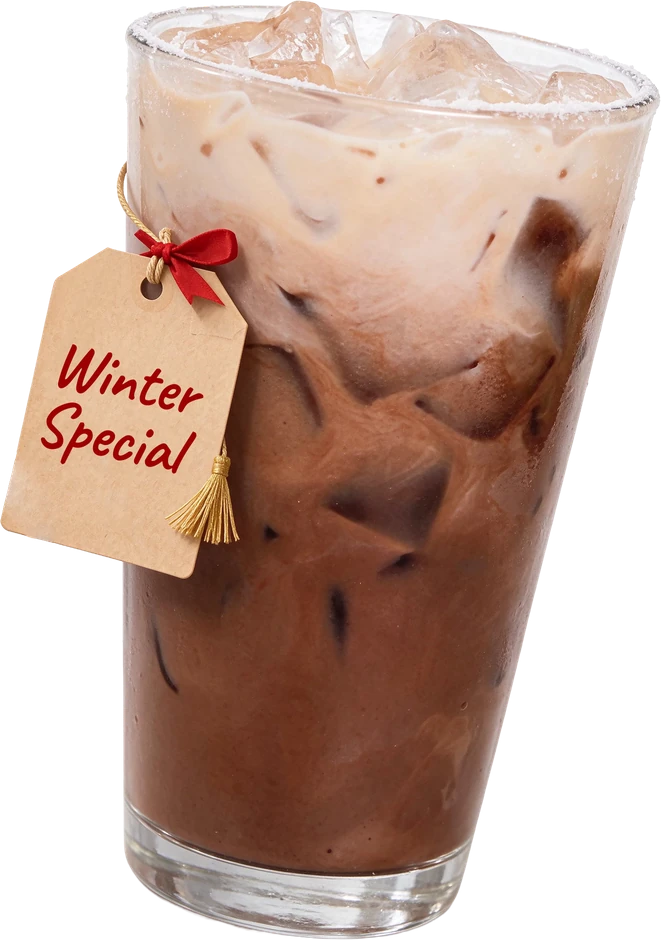
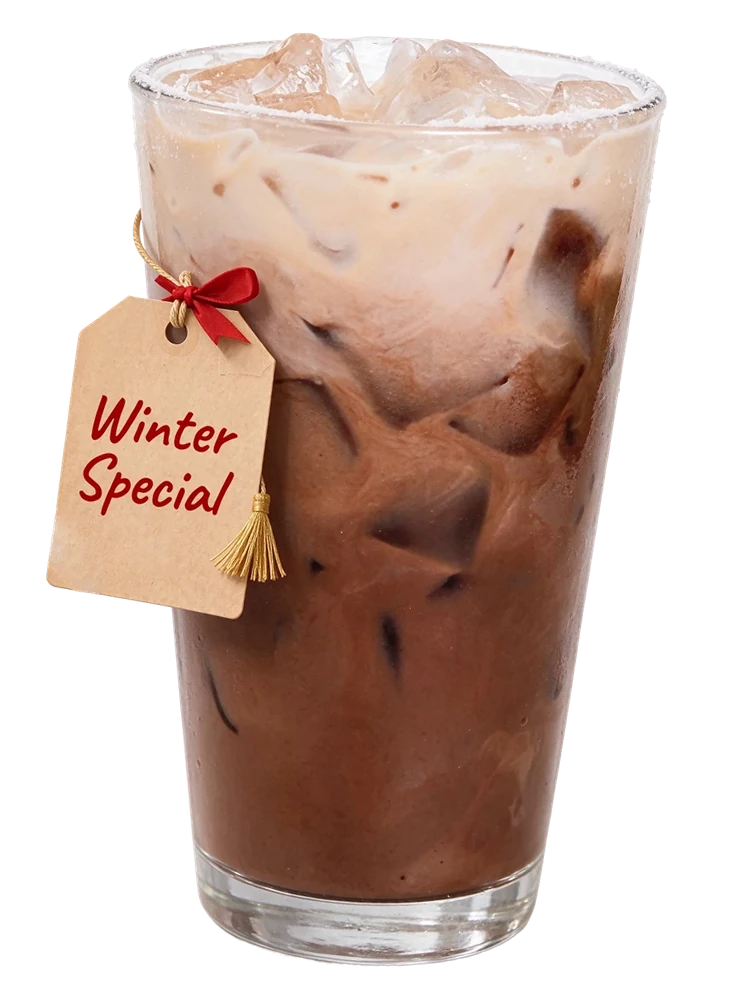
Cốc Cacao đứng thẳng ở trang chi tiết, viền card 1.2px, nút X ở trang Thông báo
Claude-Session: https://claude.ai/code/session_01E8ZwN3LHCJzK6WDiXAEDfZ

diff --git a/index.html b/index.html
@@ -390,7 +390,7 @@ input{user-select:text;-webkit-user-select:text}
 .card[data-id=den] .cup{top:78px}
 .card[data-id=nau] .cup{top:74px}
 .card[data-id=bac] .cup{top:74px}
-.card[data-id=cacao] .cup{top:76px;height:235px}
+.card[data-id=cacao] .cup{top:69px;height:249px}
 .card[data-id=cacao] .top{flex-direction:column;gap:8px}
 /* soft white outer glow, breathing slowly with a small swell */
 .card .cup img,.spin{--glow:rgba(255,255,255,.5);--glow0:rgba(255,255,255,.5);filter:drop-shadow(0 0 22px var(--glow0));animation:beat 4.8s ease-in-out infinite}
@@ -446,7 +446,7 @@ input{user-select:text;-webkit-user-select:text}
 #home .homesnow::before{opacity:.6;background-image:radial-gradient(1.8px 1.8px at 30px 40px,#fff,transparent),radial-gradient(1.3px 1.3px at 110px 150px,rgba(255,255,255,.8),transparent),radial-gradient(2.2px 2.2px at 190px 80px,#fff,transparent),radial-gradient(1.5px 1.5px at 270px 200px,rgba(255,255,255,.8),transparent),radial-gradient(1.9px 1.9px at 340px 110px,#fff,transparent);background-size:380px 260px;animation:snowfall 24s linear infinite}
 #home .homesnow::after{opacity:.4;background-image:radial-gradient(1.1px 1.1px at 60px 90px,#fff,transparent),radial-gradient(1.4px 1.4px at 150px 30px,#fff,transparent),radial-gradient(1.1px 1.1px at 240px 170px,#fff,transparent),radial-gradient(1.6px 1.6px at 320px 60px,#fff,transparent);background-size:340px 200px;animation:snowfall2 36s linear infinite}
 @media (prefers-reduced-motion:reduce){#home .homesnow::before,#home .homesnow::after{animation:none}}
-.card[data-id=cacao] .surf::before{content:"";position:absolute;inset:0;border-radius:inherit;padding:.8px;background:linear-gradient(180deg,#fff3b8,#f5c842);-webkit-mask:linear-gradient(#000 0 0) content-box,linear-gradient(#000 0 0);-webkit-mask-composite:xor;mask-composite:exclude;pointer-events:none}
+.card[data-id=cacao] .surf::before{content:"";position:absolute;inset:0;border-radius:inherit;padding:1.2px;background:linear-gradient(180deg,#fff3b8,#f5c842);-webkit-mask:linear-gradient(#000 0 0) content-box,linear-gradient(#000 0 0);-webkit-mask-composite:xor;mask-composite:exclude;pointer-events:none}
 .card[data-id=cacao] .top{left:17px;top:17px}
 .card[data-id=cacao] .top h3{line-height:41px}
 .card[data-id=cacao] .pricebar{left:17px;right:17px;bottom:17px;height:63px}
@@ -746,7 +746,7 @@ input{user-select:text;-webkit-user-select:text}
 
 <div id="notif" class="screen page" data-how="right" aria-label="Thông báo">
   <div class="stage">
-    <button class="abs circ pback" data-back aria-label="Quay lại"><svg><use href="#i-back"/></svg></button>
+    <button class="abs circ pback" data-back aria-label="Quay lại"><svg><use href="#i-close"/></svg></button>
     <h2 class="abs pt" data-s>Thông báo</h2>
     <div class="abs plist" id="nlist"></div>
     <div class="abs estate nempty" id="nEmpty" hidden>
@@ -887,7 +887,7 @@ const DRINKS = [
   {id:'den', name:'Đen', price:20000, xl:5000, sweet:false, cafe:false, aspect:512/792,            stops:[[0,'#484848'],[.5739,'#1e1e1e']], edge:.12, card:'linear-gradient(0deg,#1e1e1e 42.61%,#484848 100%)', bg:'linear-gradient(0deg,#1e1e1e 42.61%,#484848 100%)'},
   {id:'nau', name:'Nâu', price:20000, xl:5000, sweet:true, cafe:false, aspect:512/797,            stops:[[0,'#fed9ae'],[.574,'#ffc077']], edge:.35, card:'linear-gradient(180deg,#fed9ae 0%,#ffc077 57.4%)', bg:'linear-gradient(180deg,#fed3a1,#ffc077)'},
   /* Cacao: món theo mùa (Noel). Ảnh nền thẻ/màn chi tiết là /cacao-bg.webp phủ thêm các lớp đỏ */
-  {id:'cacao', name:'Cacao', price:20000, xl:5000, sweet:true, cafe:false, aspect:661/940, spinH:262, cupLeft:74, xmas:true, stops:[[0,'#ac0b0b']], edge:0,
+  {id:'cacao', name:'Cacao', price:20000, xl:5000, sweet:true, cafe:false, aspect:741/996, spinH:277.6, cupLeft:64, rot:16.7, xmas:true, stops:[[0,'#ac0b0b']], edge:0,
    photo:'url(/cacao-bg.webp)', posCard:'100% 0/130.38% 130.41%', posDet:'0 92.2%/107.15% 107.17%',
    cardShade:'linear-gradient(0deg,rgba(172,11,11,0) 56.036%,rgba(172,11,11,.9) 93.103%),linear-gradient(-90deg,rgba(172,11,11,.8) 1.0549%,rgba(172,11,11,0) 13.984% 73.103%,rgba(172,11,11,.8) 94.586%),linear-gradient(180deg,rgba(172,11,11,0) 36.59%,rgba(172,11,11,.2) 71.138%,#8e0000 100.89%)',
    bgShade:'radial-gradient(ellipse 50% 50% at 50% 50%,rgba(58,0,16,0) 60%,rgba(58,0,16,.33) 100%),linear-gradient(0deg,rgba(172,11,11,0) 73.09%,rgba(172,11,11,.9) 100%),linear-gradient(-90deg,rgba(172,11,11,0) 51.759%,rgba(172,11,11,.8) 67.335%,#ac0b0b 100%),linear-gradient(180deg,rgba(172,11,11,0) 36.59%,rgba(172,11,11,.8) 71.138%,#ac0b0b 100.89%)'},

diff --git a/src/admin/drinks.css b/src/admin/drinks.css
@@ -134,11 +134,11 @@
 /* đổi món: nút đứng yên, chỉ đổi màu mượt theo món mới */
 .dr-detail.sw .back,.dr-detail.sw .cartbtn,.dr-detail.sw .pm,.dr-detail.sw .dadd,.dr-detail.sw .dbuy,.dr-detail.sw .dprice,.dr-detail.sw .bulge{transition:background-color .8s,color .8s}
 /* Cacao (Noel) */
-.dr .card[data-id=cacao] .cup{top:76px;height:235px}
+.dr .card[data-id=cacao] .cup{top:69px;height:249px}
 .dr .card[data-id=cacao] .top{flex-direction:column;gap:8px}
 .dr .card[data-id=cacao]{--t:#fff;--ib:rgba(255,255,255,.2);--ic:#fff}
 .dr .card[data-id=cacao] .surf{border-radius:32px}
-.dr .card[data-id=cacao] .surf::before{content:"";position:absolute;inset:0;border-radius:inherit;padding:.8px;background:linear-gradient(180deg,#fff3b8,#f5c842);-webkit-mask:linear-gradient(#000 0 0) content-box,linear-gradient(#000 0 0);-webkit-mask-composite:xor;mask-composite:exclude;pointer-events:none}
+.dr .card[data-id=cacao] .surf::before{content:"";position:absolute;inset:0;border-radius:inherit;padding:1.2px;background:linear-gradient(180deg,#fff3b8,#f5c842);-webkit-mask:linear-gradient(#000 0 0) content-box,linear-gradient(#000 0 0);-webkit-mask-composite:xor;mask-composite:exclude;pointer-events:none}
 .dr .card[data-id=cacao] .top{left:17px;top:17px}
 .dr .card[data-id=cacao] .top h3{line-height:41px}
 .dr .card[data-id=cacao] .pricebar{left:17px;right:17px;bottom:17px;height:63px}

diff --git a/src/admin/Drinks.jsx b/src/admin/Drinks.jsx
@@ -17,7 +17,7 @@ export const META = {
   nau: { name: 'Nâu', sweet: true, cafe: false, aspect: 512 / 797, stops: [[0, '#fed9ae'], [0.574, '#ffc077']], edge: 0.35, card: 'linear-gradient(180deg,#fed9ae 0%,#ffc077 57.4%)', bg: 'linear-gradient(180deg,#fed3a1,#ffc077)' },
   // Cacao: món theo mùa (Noel), như app khách
   cacao: {
-    name: 'Cacao', sweet: true, cafe: false, aspect: 661 / 940, spinH: 262, cupLeft: 74, xmas: true, stops: [[0, '#ac0b0b']], edge: 0,
+    name: 'Cacao', sweet: true, cafe: false, aspect: 741 / 996, spinH: 277.6, cupLeft: 64, rot: 16.7, xmas: true, stops: [[0, '#ac0b0b']], edge: 0,
     card: 'linear-gradient(0deg,rgba(172,11,11,0) 56.036%,rgba(172,11,11,.9) 93.103%),linear-gradient(-90deg,rgba(172,11,11,.8) 1.0549%,rgba(172,11,11,0) 13.984% 73.103%,rgba(172,11,11,.8) 94.586%),linear-gradient(180deg,rgba(172,11,11,0) 36.59%,rgba(172,11,11,.2) 71.138%,#8e0000 100.89%),url(/cacao-bg.webp) 100% 0/130.38% 130.41% no-repeat #ac0b0b',
     bg: 'radial-gradient(ellipse 50% 50% at 50% 50%,rgba(58,0,16,0) 60%,rgba(58,0,16,.33) 100%),linear-gradient(0deg,rgba(172,11,11,0) 73.09%,rgba(172,11,11,.9) 100%),linear-gradient(-90deg,rgba(172,11,11,0) 51.759%,rgba(172,11,11,.8) 67.335%,#ac0b0b 100%),linear-gradient(180deg,rgba(172,11,11,0) 36.59%,rgba(172,11,11,.8) 71.138%,#ac0b0b 100.89%),url(/cacao-bg.webp) 0 92.2%/107.15% 107.17% no-repeat #ac0b0b',
   },

diff --git a/src/admin/ui.jsx b/src/admin/ui.jsx
@@ -155,7 +155,7 @@ export const stagger = (root, sel, base = 120, step = 45) => {
   const els = [...root.querySelectorAll(sel)].filter((x) => !seen.has(x) && seen.add(x)).slice(0, 14);
   return els.map((r, k) => r.animate([{ opacity: 0, transform: 'translateY(16px) scale(.97)' }, { opacity: 1, transform: 'none' }], { duration: 520, delay: base + k * step, easing: SPRING, fill: 'backwards' }));
 };
-export const Page = ({ title, sub, head, onBack, children, footer, className = '' }) => {
+export const Page = ({ title, sub, head, onBack, children, footer, className = '', closeIcon = false }) => {
   const ref = useRef(null);
   const leaving = useRef(false);
   useEffect(() => {
@@ -196,7 +196,7 @@ export const Page = ({ title, sub, head, onBack, children, footer, className = '
   backRef.current = back;
   return (
     <div className={`a-page a-fx ${className}`} ref={ref}>
-      <button className="a-back" onClick={back} aria-label="Quay lại"><Sym id="i-back" size={28} /></button>
+      <button className="a-back" onClick={back} aria-label="Quay lại"><Sym id={closeIcon ? "i-close" : "i-back"} size={28} /></button>
       {head}
       {title && <h1 className="a-title">{title}</h1>}
       {sub && <p className="a-sub">{sub}</p>}

diff --git a/src/admin/OrderTab.jsx b/src/admin/OrderTab.jsx
@@ -322,7 +322,7 @@ export function Notifs({ orders, onBack, onOpen, onPay }) {
   const list = orders.slice(0, 30);
   const claims = claimGroups(orders);
   return (
-    <Page title="Thông báo" onBack={onBack}>
+    <Page title="Thông báo" onBack={onBack} closeIcon>
       {claims.map((g) => (
         <button key={`claim-${g.phone}`} className="o-nrow wait new" onClick={() => onPay && onPay(g.phone)}>
           <span className="ni"><Sym id="i-verified" size={20} /></span>
